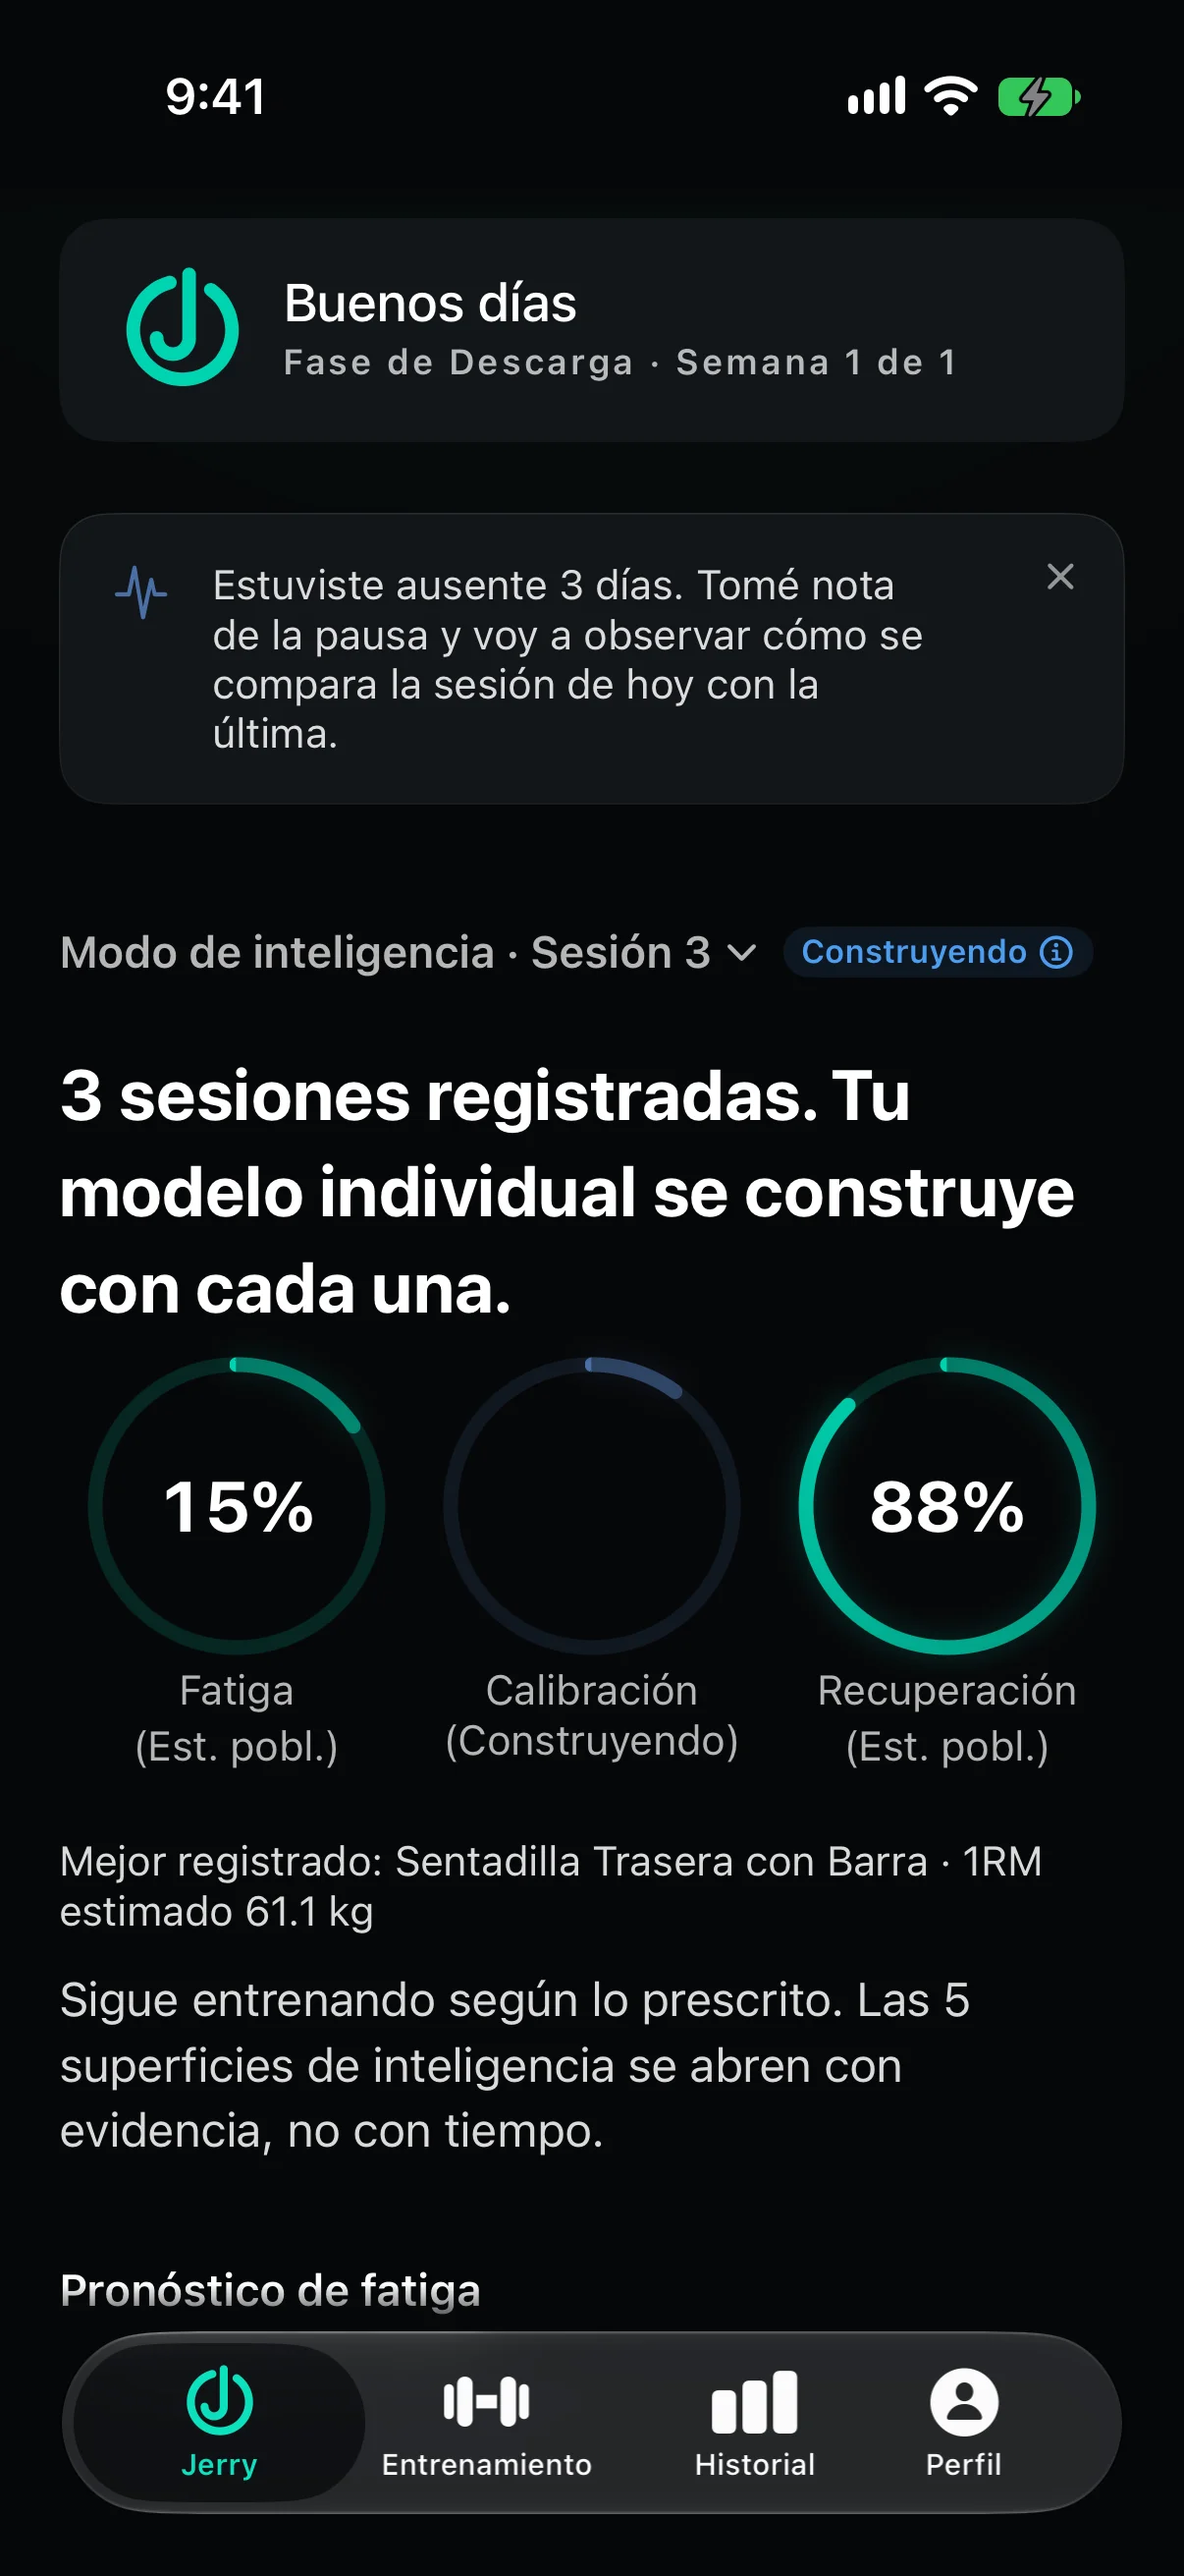
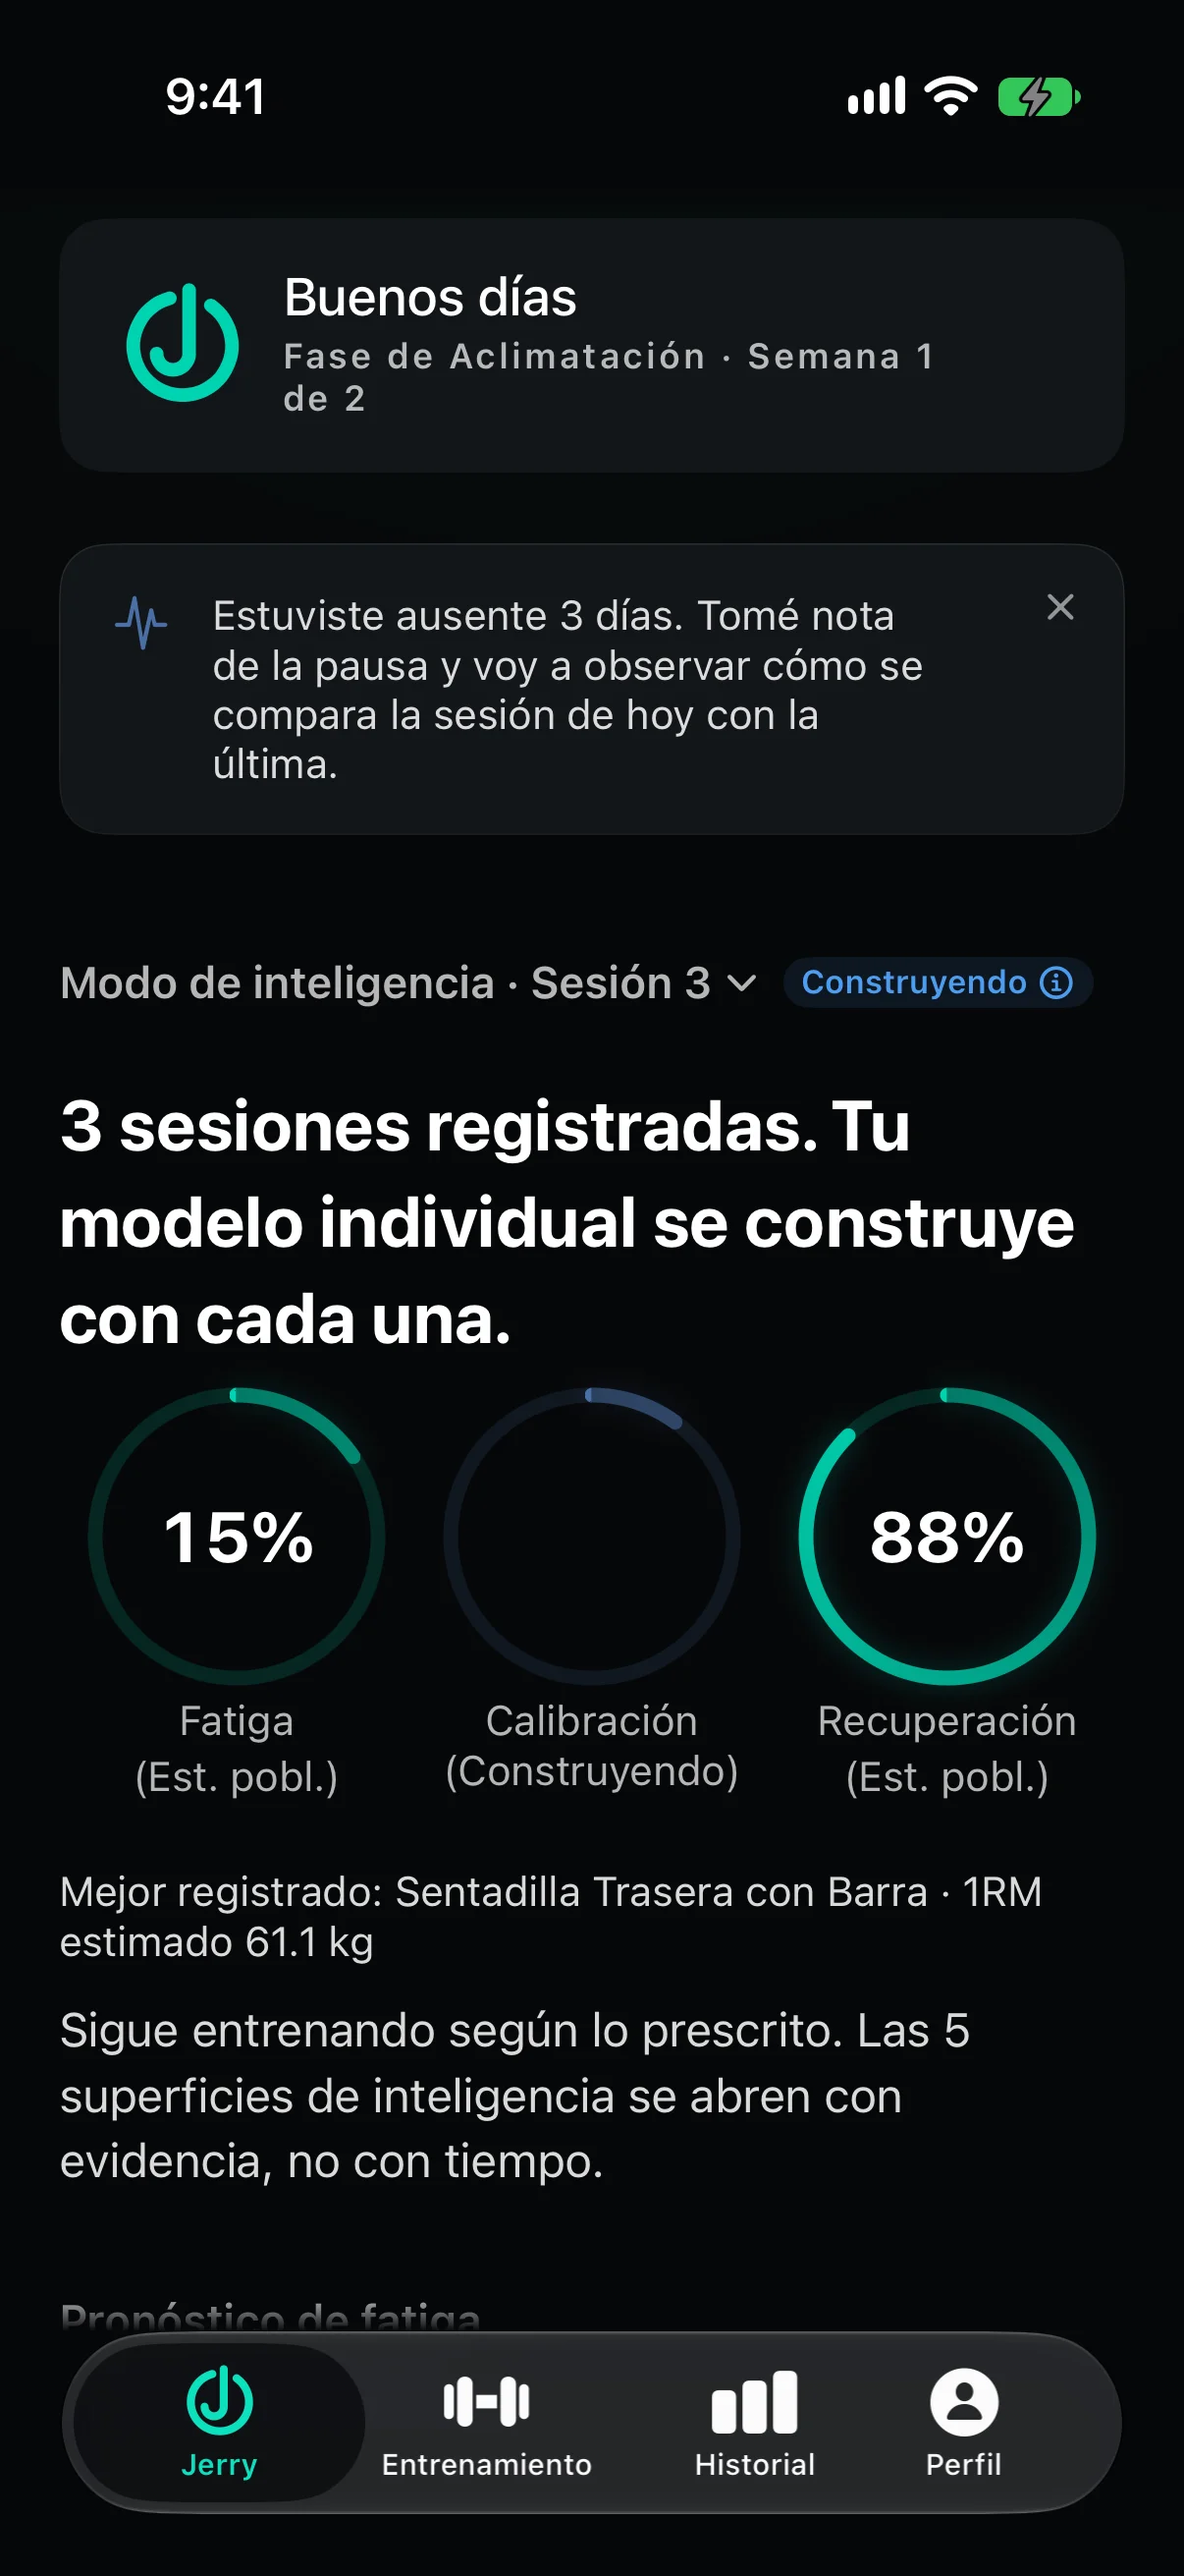
Three sessions in, Jerry is in Acclimation, not a deload he could not have earned
[verify-exempt: SEPARATE website repo, ZERO Swift in this commit. Two screenshots and cache
stamps. The UI-test changes that produced them are in the OTHER repo and are deliberately NOT
being verified by me: the CEO has instructed that `fast` be batched with the engine engineer's
run rather than paid per change. ./check.sh green: 15 gates, 20 pages.]

CEO-found, and he found it by reading the picture rather than the caption: "3 sessions logged
and on deload phase, does that follow?"

It does not. A deload is a planned reduction after accumulated loading and three sessions
produce almost none. Measured across the four published frames:

    dashboard  1 session     Acclimation Phase, Week 1 of 2   coherent
    session3   3 sessions    Deload Phase, Week 1 of 1        NOT
    hundred    100 sessions  Deload Phase, Week 1 of 1        coherent
    answered   100 sessions  Deload Phase, Week 1 of 1        coherent

At a hundred sessions the engine reaches a deload on its own. At three it never would. That
frame came from `deload_capturesDeloadSurfaces`, whose fixture calls
`adoptDeloadEarlyPath(projectedPeakFatigue: 0.82, horizonWeeks: 2)`. The door is the engine's
own and the state is real, but the 0.82 is HANDED IN, not earned by three seeded sessions.

🔒 THE PROMISE IS THE DEFECT, NOT THE FIXTURE. A seeded state is legitimate on a marketing page
exactly as far as the caption admits it was seeded, and this site says so out loud: "Where
[…]

diff --git a/es/index.html b/es/index.html
@@ -190,7 +190,7 @@ details.raw pre{font-family:var(--mono);font-size:.75rem;color:var(--ink3);overf
           <div class="device device--front">
             <div class="device__body"><div class="device__glass">
               <div class="device__screenwrap">
-                <img class="device__screen" src="/assets/shots/es-session3.webp?v=d8917e1f27" width="1206" height="2622" fetchpriority="high" decoding="async"
+                <img class="device__screen" src="/assets/shots/es-session3.webp?v=9d9dc74aa8" width="1206" height="2622" fetchpriority="high" decoding="async"
                      alt="El panel de OrderedStrength en español después de tres sesiones registradas. La insignia de modo dice Construyendo, la fatiga y la recuperación están marcadas Est. pobl. en 15 y 88 por ciento, y el titular dice que el modelo individual se construye con cada una.">
               </div>
               <span class="device__island" aria-hidden="true"></span><span class="device__sheen" aria-hidden="true"></span>

diff --git a/index.html b/index.html
@@ -190,7 +190,7 @@ details.raw pre{font-family:var(--mono);font-size:.75rem;color:var(--ink3);overf
           <div class="device device--front">
             <div class="device__body"><div class="device__glass">
               <div class="device__screenwrap">
-                <img class="device__screen" src="/assets/shots/session3.webp?v=23c48961f8" width="1206" height="2622" fetchpriority="high" decoding="async"
+                <img class="device__screen" src="/assets/shots/session3.webp?v=8ef637f588" width="1206" height="2622" fetchpriority="high" decoding="async"
                      alt="The OrderedStrength dashboard after three logged sessions. The mode badge reads Building, fatigue and recovery are marked Pop. Est. at 15 and 88 percent, and the headline says the individual model is building from every session.">
               </div>
               <span class="device__island" aria-hidden="true"></span><span class="device__sheen" aria-hidden="true"></span>
